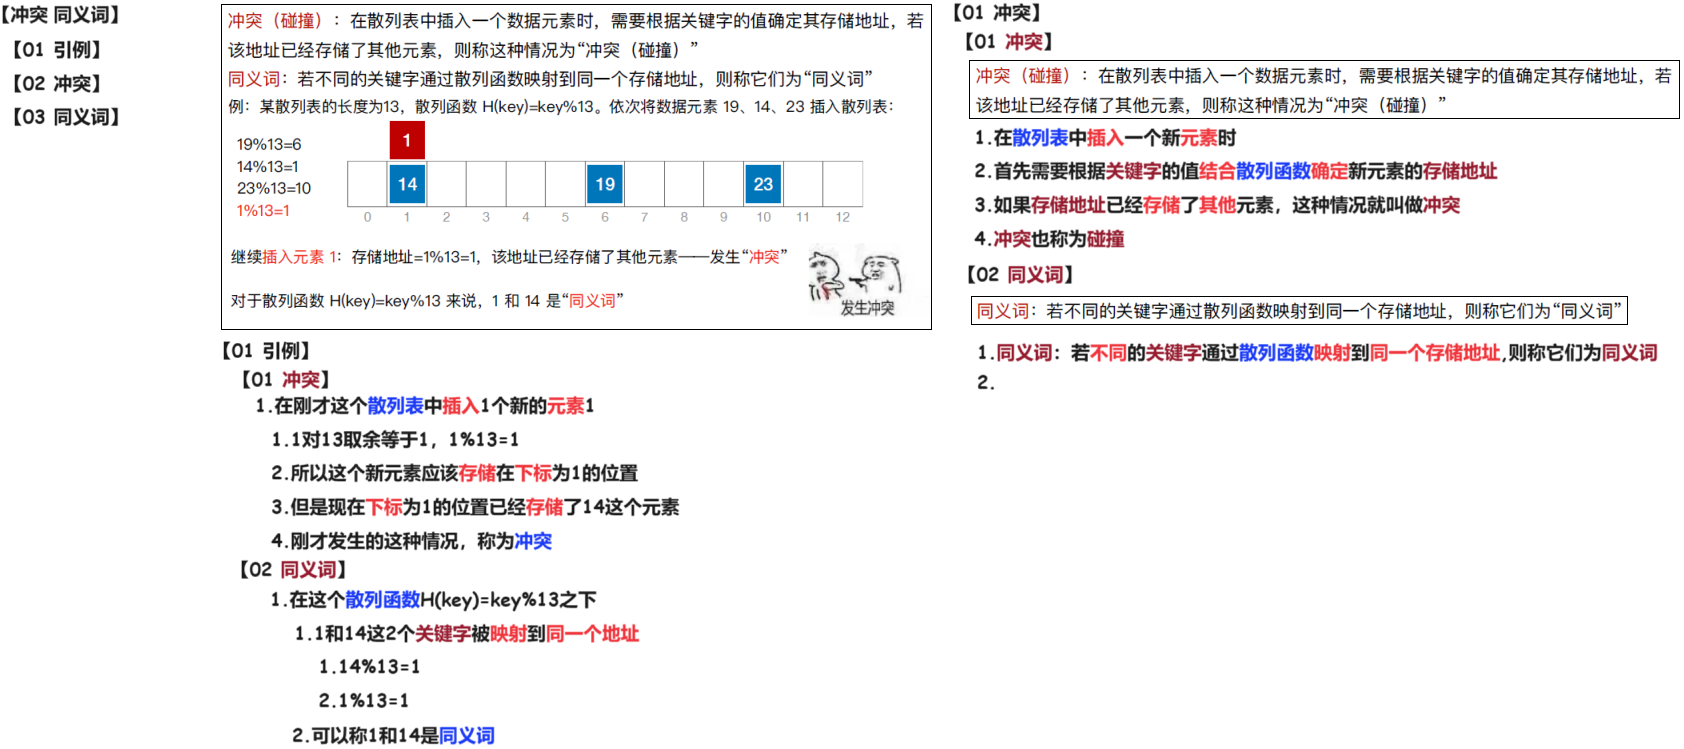
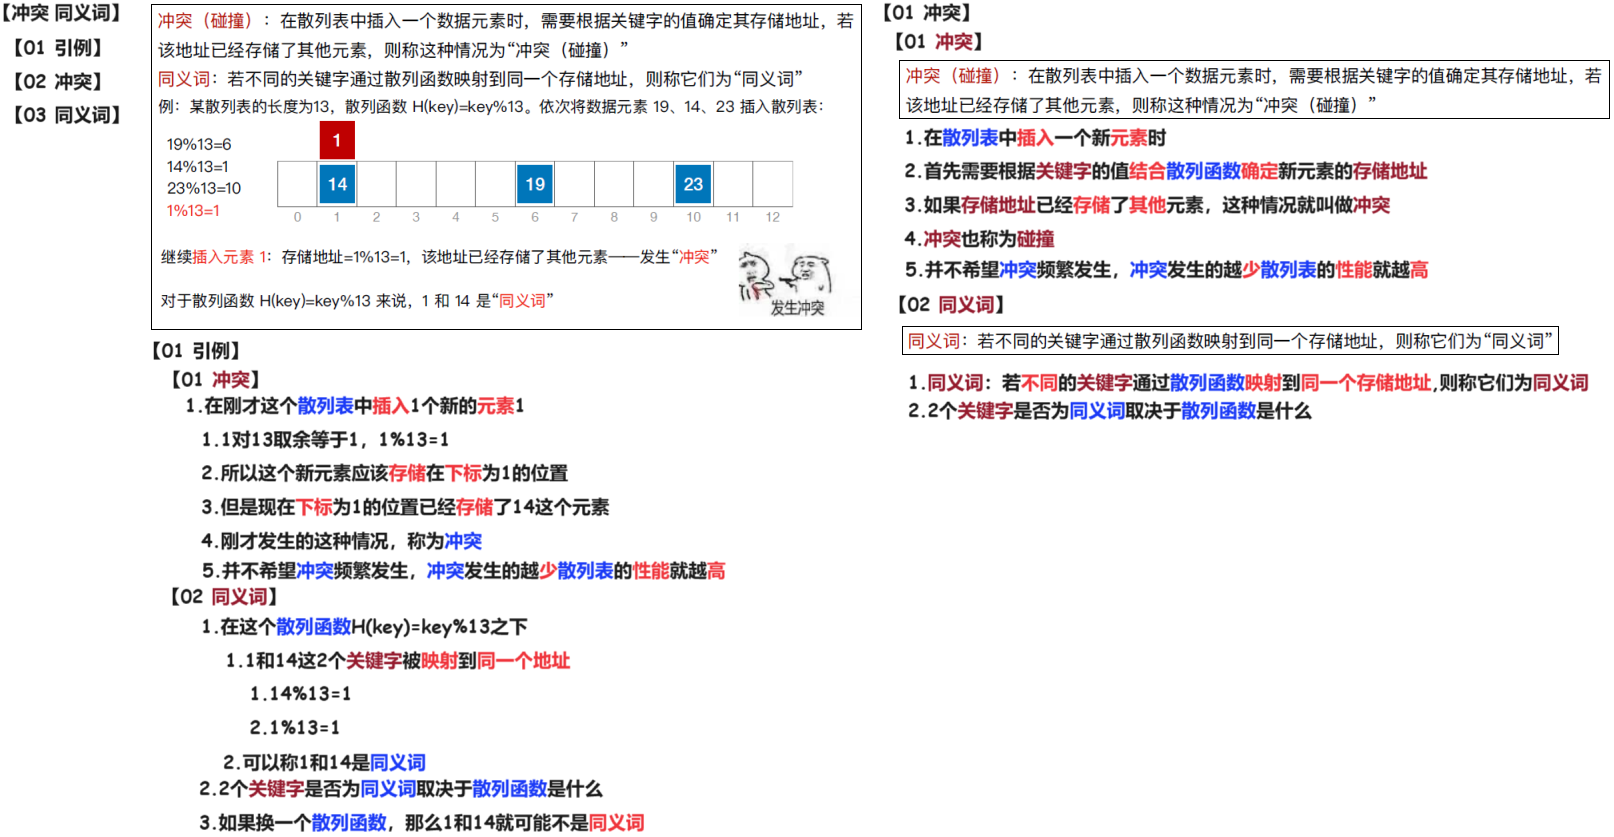
240326

Changed region(s): [[0.0, 0.0, 1.0, 1.0]]

diff --git a/01 初试/02 DS/02 知识点/01 王道基础/07 第七章 查找/05 散列表/01 散列表 基本概念 240326/02 Doc.md b/01 初试/02 DS/02 知识点/01 王道基础/07 第七章 查找/05 散列表/01 散列表 基本概念 240326/02 Doc.md
@@ -15,3 +15,9 @@
 
 
 # 03 冲突 同义词
+
+<img src="https://cvp.oss-cn-shanghai.aliyuncs.com/picgo/202403261752408.png" alt="image-20240326175202125" style="zoom:50%;" />
+
+
+
+# 04 如何减少冲突
